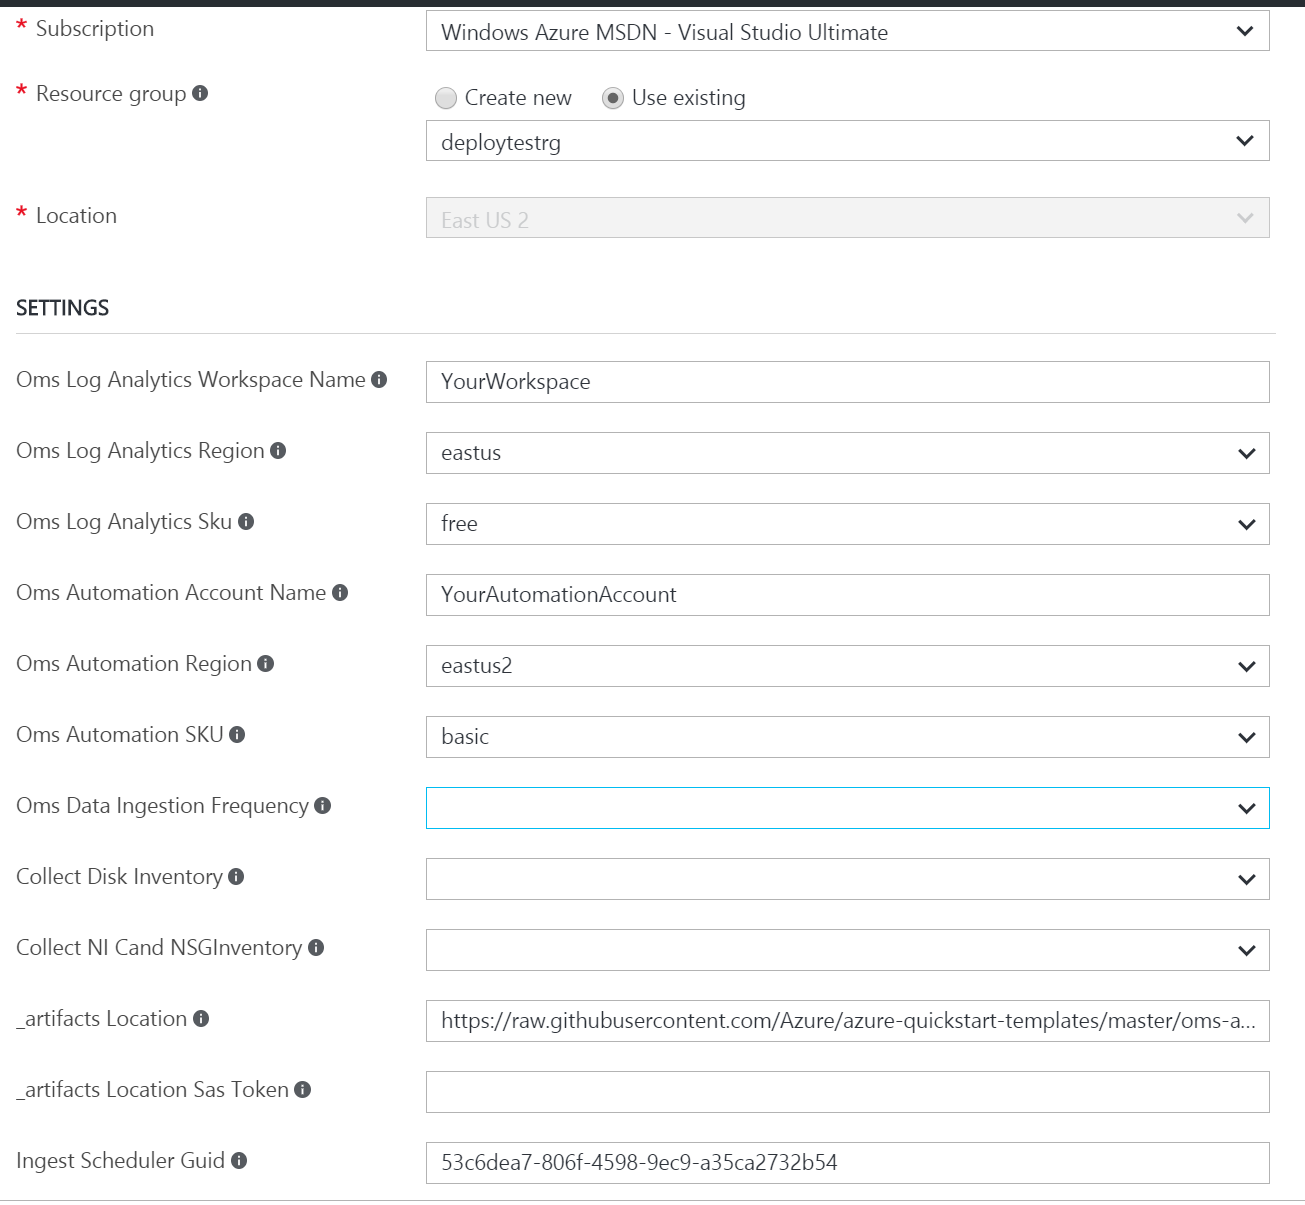
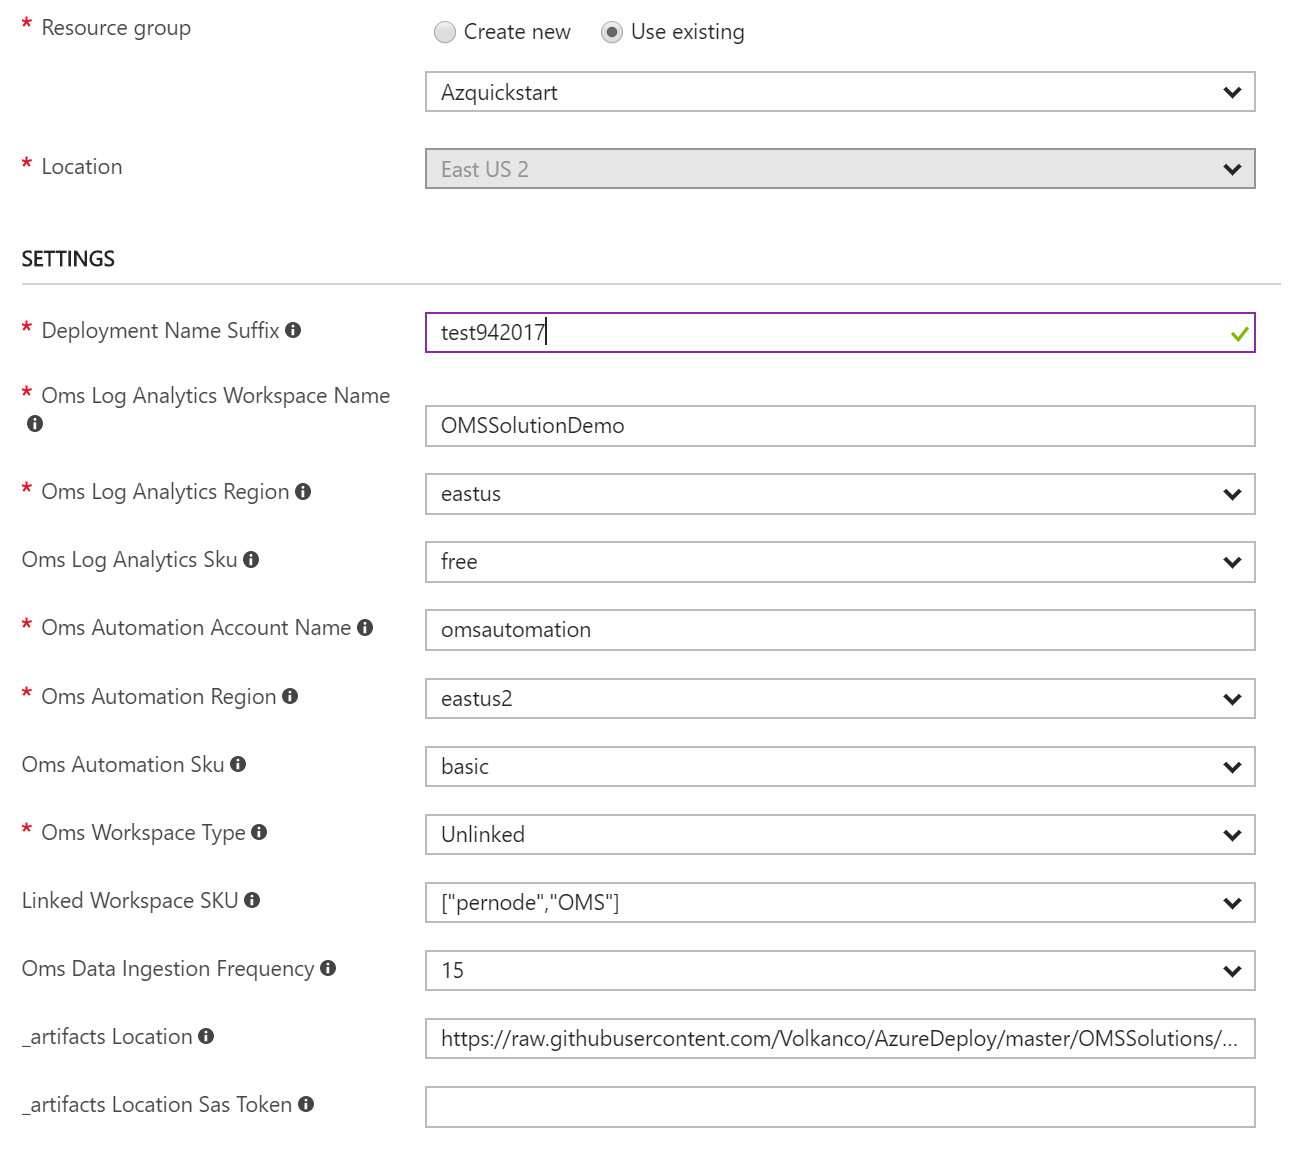
add images for scale sets

diff --git a/OMSSolutions/oms-azure-vminventory-solution-v2/README.md b/OMSSolutions/oms-azure-vminventory-solution-v2/README.md
@@ -63,6 +63,10 @@ Ensure that the parameters reflects your setup so that you are deploying this in
 
 #### Parameters
 
+* Deployment Name Suffix 
+
+Specify any conbinamtion of characters or numbers . This random text is used to calculate guid for automation schedules.
+
 * OMS Log Analytics Workspace Name
 
 Specify the name of the workspace you want to deploy this solution to
@@ -70,6 +74,10 @@ Specify the name of the workspace you want to deploy this solution to
 * OMS Log Analytics Region
 
 Select the Azure Region where your existing workspace is located
+
+* OMS Log Analytics SKU
+
+Select the Log Analytics SKU . IF you select linked workspace LinkedWorkspace SKU is used and this parameter is ignored.
 
 * OMS Automation Account Name
 
@@ -79,11 +87,22 @@ Specify the name of the automation account you created earlier
 
 Select the Azure Region where your automation account is located
 
+* OMS Automation SKU
 
-You should also change the values for the *Ingest Scheduler Guid* and *Ingest Cleanup Guid*. You can generate your own using PowerShell with the following cmdlet:
+Select the Automation Account  SKU . IF you select linked workspace LinkedWorkspace SKU is used and this parameter is ignored.
 
+* OMS Workspace Type
 
-![alt text](images/knguid.png "guid")
+Select if the workspace   is linked to automation account 
+
+* Linked Workspace SKU 
+
+Select the SKU for Linked Workspace and Automation Account.
+
+* OMS Data Ingestion Frequency 
+
+Specify  how often to query for VM data , Choose 15 - 30 or 60 minutes.
+
 
 Once you have customized all the parameters, click *Create*
 
@@ -105,7 +124,13 @@ In the Resource Group where you deployed the template, you should see the soluti
 
 The views for Azure VM Inventory   will give you an overview of all the VMs  within your Azure Subscription.  Multiple subscriptions can be added to provide overview for all.
 
-![alt text](images/vminventory_inv1.png "Azure VM Inventory view")
+![alt text](images/vminventory_inv1.png "Azure VM Inventory View")
+
+Scale Sets View 
+
+![alt text](images/scalesets.png "Azure VM Scale Sets View")
+
+
 
  Solution collects and visualizes ;
 
